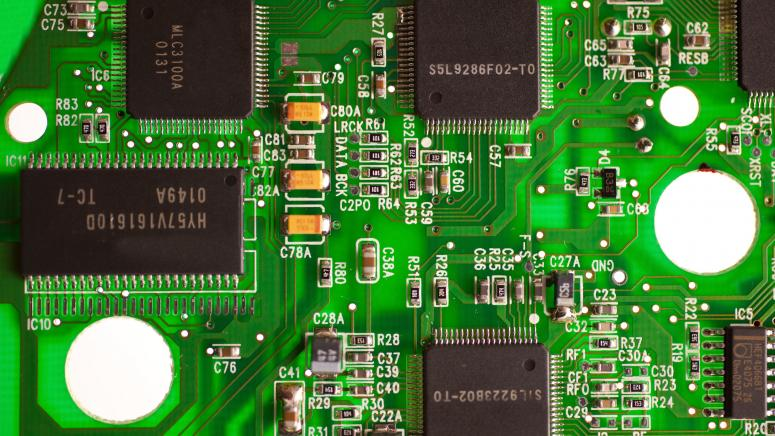
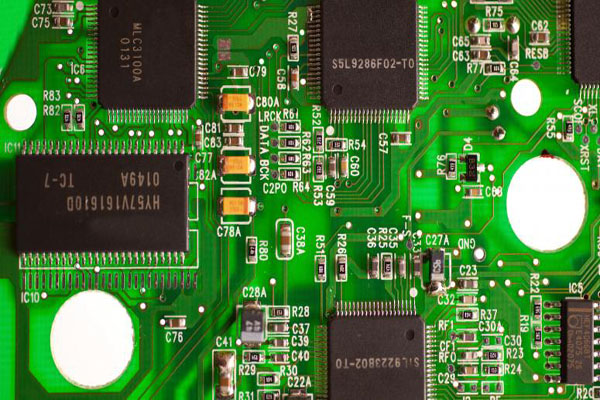
resize images

diff --git a/public/index.html b/public/index.html
@@ -139,7 +139,7 @@
                 <div class="col-lg-4 col-md-6 col-12 cards" data-aos="fade-up" data-aos-delay="400"
                     onclick="view_event('tech-tab')">
                     <div class="class-thumb">
-                        <img src="images/tech.png" class="img-fluid" style="width: 100%;" alt="Class">
+                        <img src="images/tech.jpg" class="img-fluid" style="width: 100%;" alt="Class">
 
                         <div class="class-info">
                             <h3 class="mb-1">Tech Events</h3>
@@ -155,7 +155,7 @@
                 <div class="mt-5 mt-lg-0 col-lg-4 col-md-6 col-12 cards" data-aos="fade-up" data-aos-delay="600"
                     onclick="view_event('non-tech-tab')">
                     <div class="class-thumb">
-                        <img src="images/non-tech.png" class="img-fluid"  style="width: 100%;" alt="Class">
+                        <img src="images/non-tech.jpg" class="img-fluid"  style="width: 100%;" alt="Class">
 
                         <div class="class-info">
                             <h3 class="mb-1">Non-Tech Events</h3>
@@ -171,7 +171,7 @@
                 <div class="mt-5 mt-lg-0 mt-md-0 col-lg-4 col-md-6 col-12 cards" data-aos="fade-up" data-aos-delay="500"
                     onclick="view_event('work-tab')">
                     <div class="class-thumb">
-                        <img src="images/workshop.png" class="img-fluid"  style="width: 100%;" alt="Class">
+                        <img src="images/workshop.jpg" class="img-fluid"  style="width: 100%;" alt="Class">
 
                         <div class="class-info">
                             <h3 class="mb-1">Workshops</h3>
